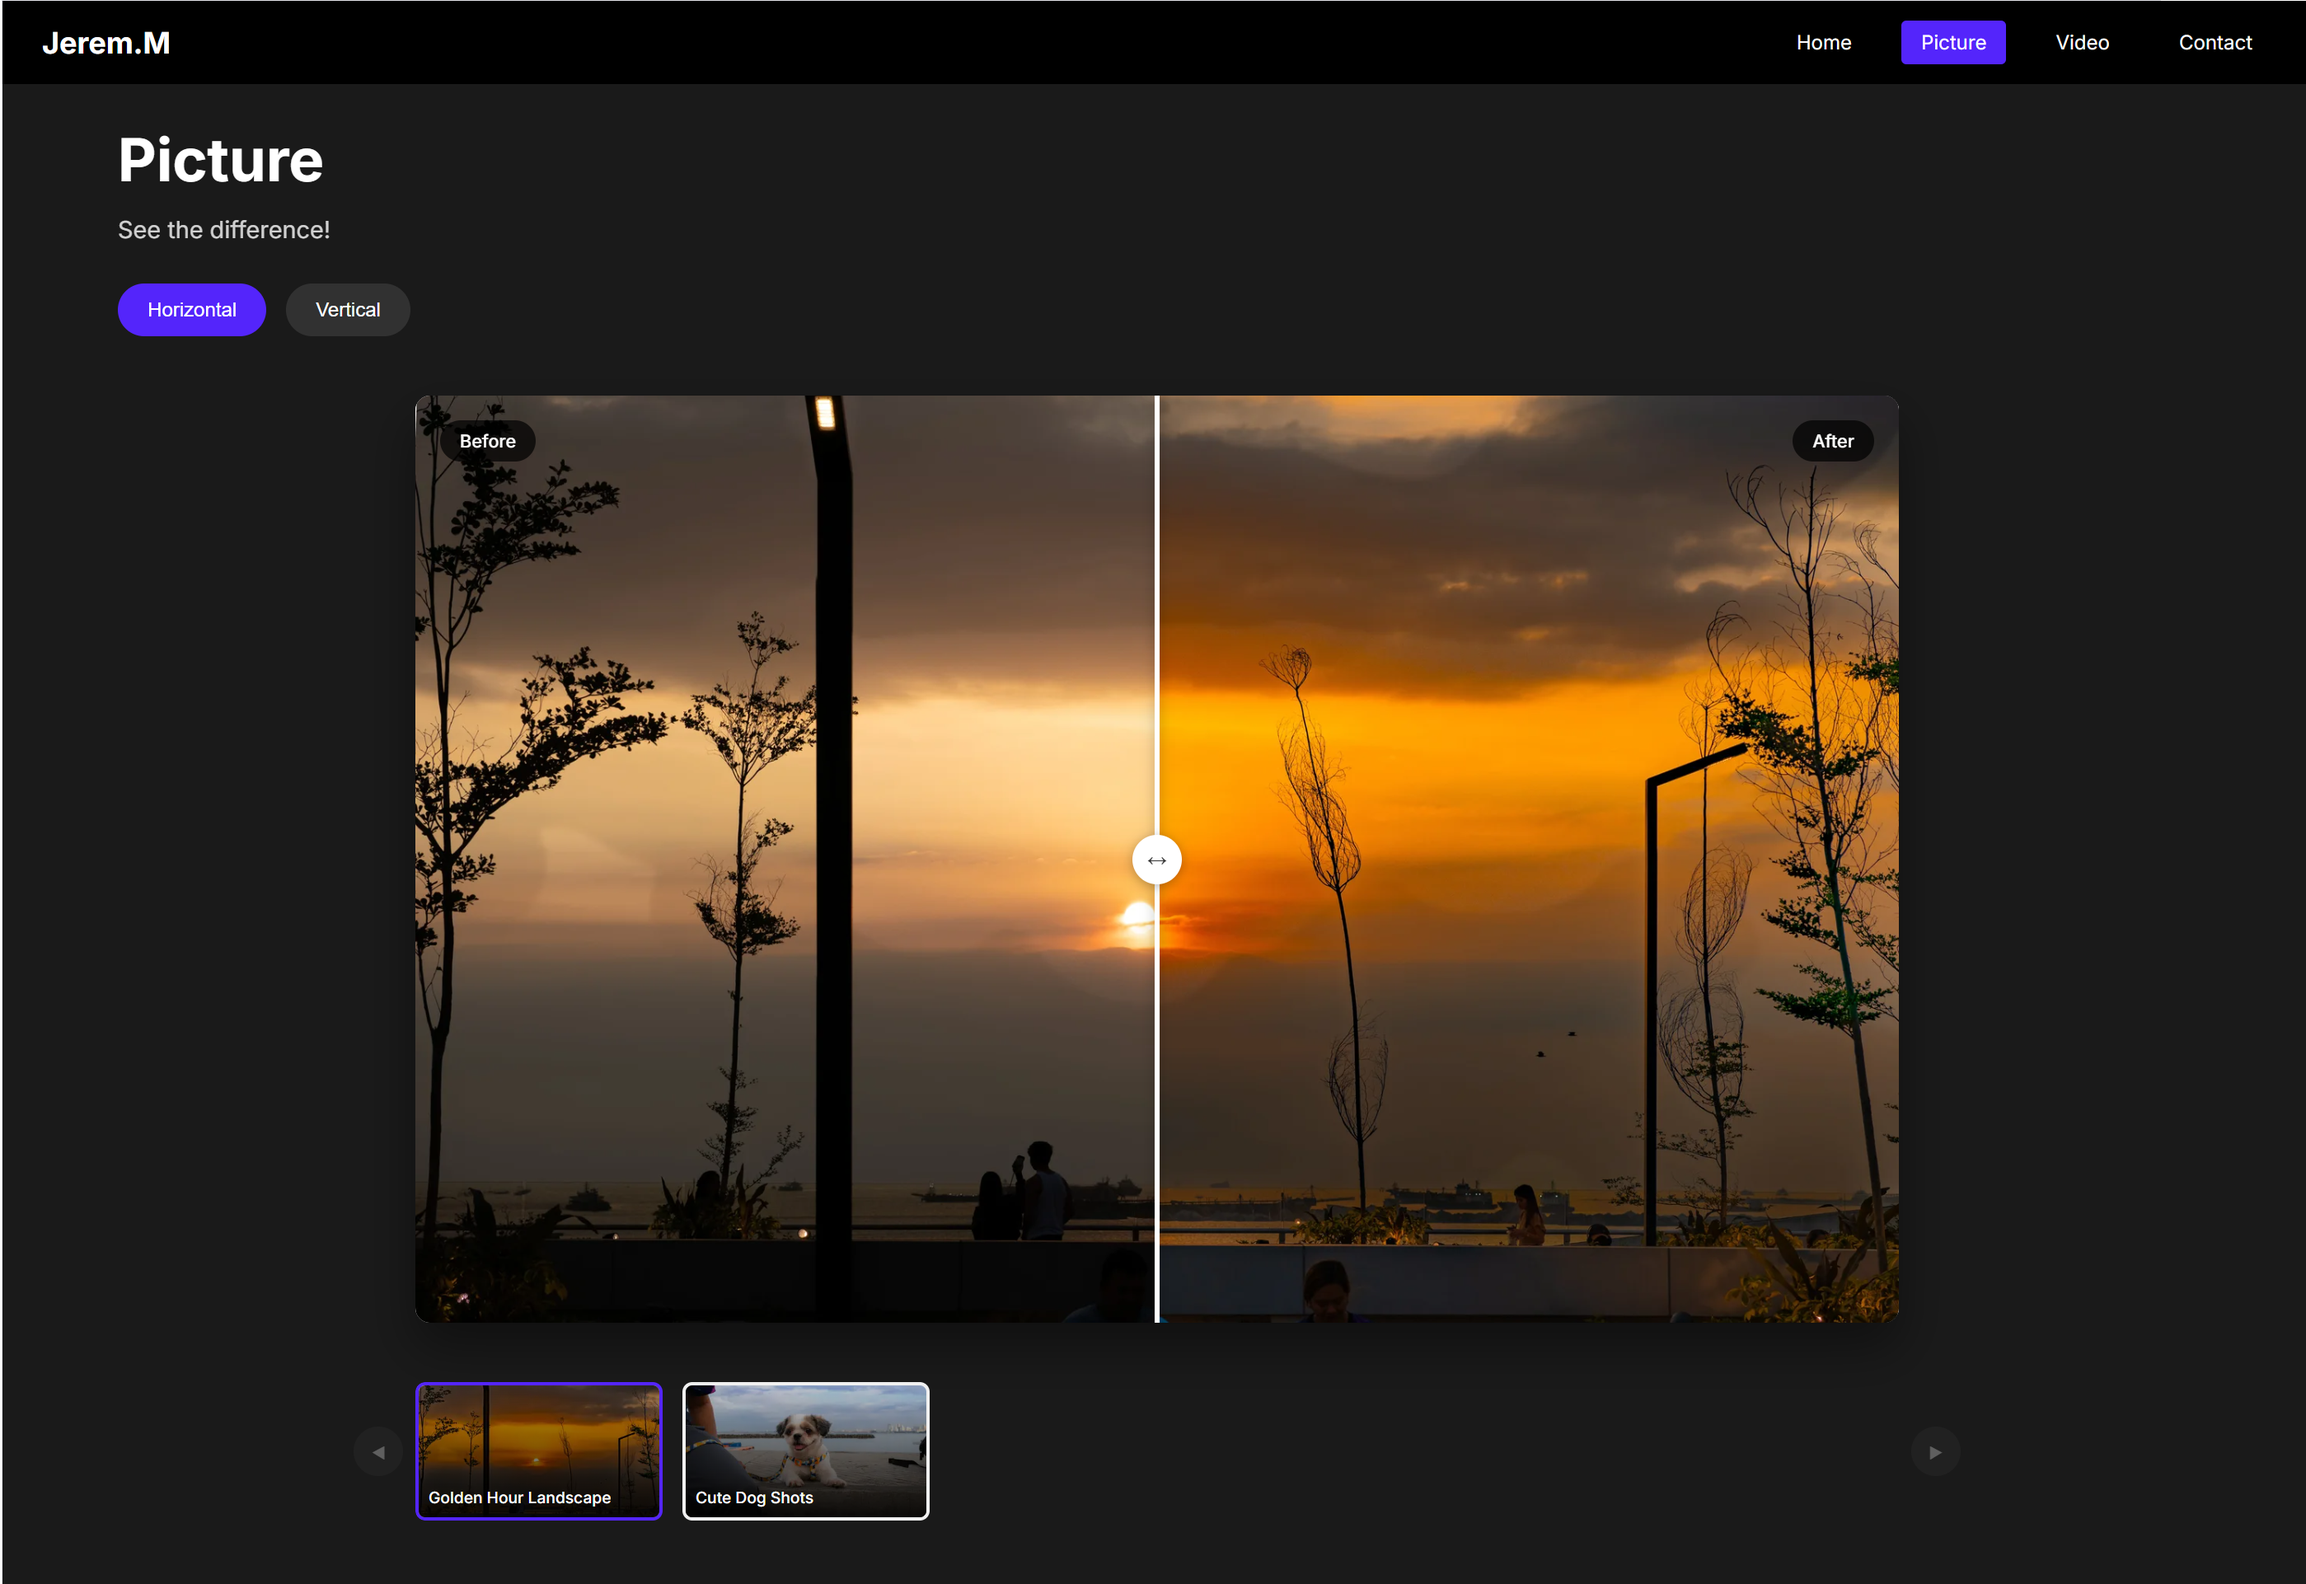
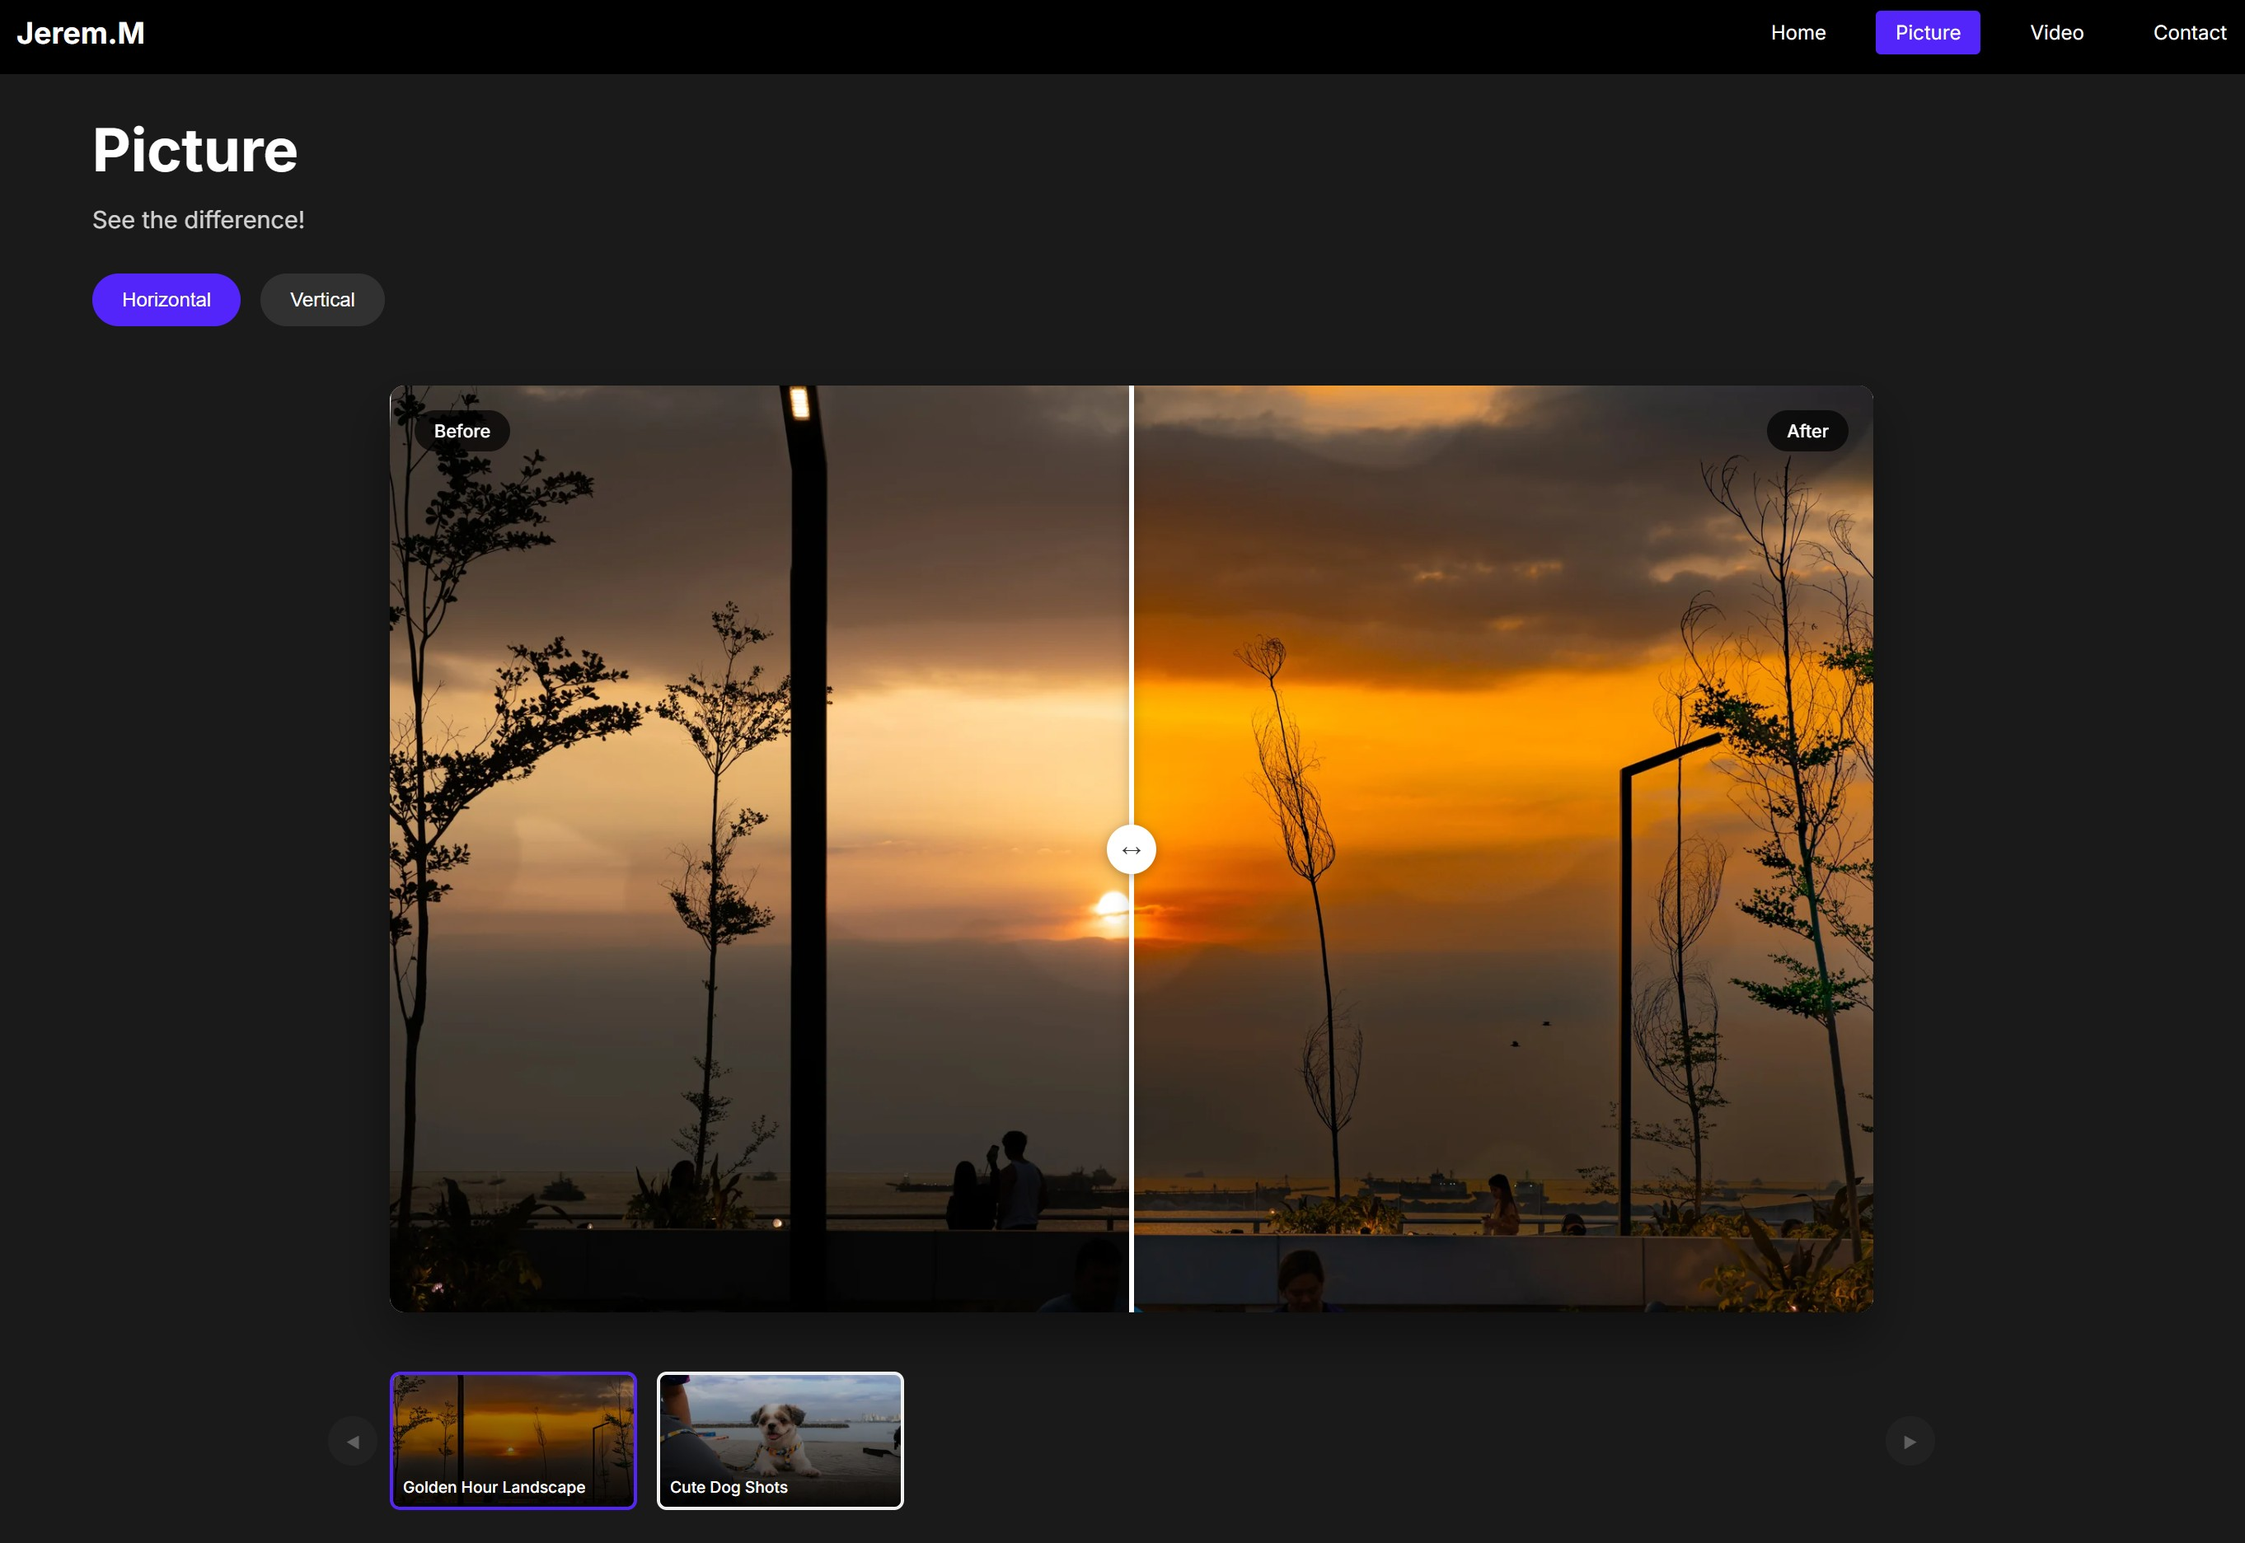
Content: updated About description

diff --git a/src/app/components/work/ProjectCard.tsx b/src/app/components/work/ProjectCard.tsx
@@ -51,7 +51,7 @@ export default function ProjectCard({ project }: { project: ProjectCardData }) {
                     {project.stack.slice(0, 6).map((tech) => (
                         <span
                             key={tech}
-                            className="rounded-full bg-[color:var(--color-surface)] px-2.5 py-1 text-xs text-[color:var(--color-text-secondary)]"
+                            className="rounded-full border border-[color:var(--tech-pill)] bg-[color:var(--color-surface)] px-2.5 py-1 text-xs text-[color:var(--tech-text)] "
                             >
                             {tech}
                         </span>
@@ -64,11 +64,11 @@ export default function ProjectCard({ project }: { project: ProjectCardData }) {
                     </p>
                 )} */}
                 <hr className="mt-2 border-t border-gray-300" />
-                <div className="mt-auto flex flex-wrap items-center gap-8 text-sm pt-1">
+                <div className="mt-auto flex flex-nowrap items-center gap-4 overflow-x-auto text-sm pt-1">
                     {isCaseStudy && 
                         <Link
                             href={`/work/${project.slug}`}
-                            className="font-medium text-[color:var(--link-accent)] hover:text-[color:var(--color-accent)] hover:underline flex gap-1"
+                            className="shrink-0 whitespace-nowrap font-medium text-[color:var(--link-accent)] hover:text-[color:var(--color-accent)] hover:underline flex gap-1"
                         >
                             <HiOutlineDocumentText size={20} />
                             Case study
@@ -80,7 +80,7 @@ export default function ProjectCard({ project }: { project: ProjectCardData }) {
                                 href={project.liveUrl}
                                 target="_blank"
                                 rel="noopener noreferrer"
-                                className="font-medium text-[color:var(--link-accent)] hover:text-[color:var(--color-accent)] hover:underline flex gap-1"
+                                className="shrink-0 whitespace-nowrap font-medium text-[color:var(--link-accent)] hover:text-[color:var(--color-accent)] hover:underline flex gap-1"
                             >
                                 <FiExternalLink size={20} />
                                 {project.title === "AnimoSched" ? <span>Published</span> : <span>Demo</span>}
@@ -91,14 +91,14 @@ export default function ProjectCard({ project }: { project: ProjectCardData }) {
                                 href={project.repoUrl}
                                 target="_blank"
                                 rel="noopener noreferrer"
-                                className="font-medium text-[color:var(--link-accent)] hover:text-[color:var(--color-accent)] hover:underline flex gap-1"
+                                className="shrink-0 whitespace-nowrap font-medium text-[color:var(--link-accent)] hover:text-[color:var(--color-accent)] hover:underline flex gap-1"
                             >
                                 <FiGithub size={20} />
-                                Repo 
+                                Repo
                             </a>
                         )}
                         {project.nda && (
-                        <div className=" font-medium text-xs text-[color:var(--color-text-secondary)] flex gap-2">
+                        <div className="shrink-0 whitespace-nowrap font-medium text-xs text-[color:var(--color-text-secondary)] flex gap-2">
                             <FaLock size={17}/>
                             <span>NDA</span>
                         </div>

diff --git a/src/app/about/page.tsx b/src/app/about/page.tsx
@@ -12,22 +12,25 @@ export default function AboutPage() {
 
                 <div className="grid grid-cols-1 items-center gap-10 sm:grid-cols-[280ox_1fr]">
                     <p className="text-lg text-[color:var(--color-text-primaray)]">
-                        Hi, I&apos;m Adrienne — a frontend engineer with a deep interest
-                        in UI/UX, especially UX research. I like playing with ideas and
-                        interface designs, and finding ways to solve real problems
-                        through a mix of design and technology.
+                        Hi, I&apos;m Adrienne — a frontend engineer in Taipei. I build React and
+                        Next.js interfaces for AI and computer-vision products. Somewhere in there I
+                        spent a year teaching computer science to kids, who are unforgiving
+                        stakeholders and excellent teachers — I came out of it more patient, better
+                        at explaining things, and much quicker to notice when someone&apos;s confused
+                        but too polite to say so. UX research is where I started and it still shapes
+                        how I build.
                     </p>
                 </div>
             </div>
 
             <div className="mt-10 flex flex-col gap-4 text-[color:var(--color-text-secondary)]">
                 <p>
-                    When I&apos;m not building interfaces, you&apos;ll usually find me
-                    drawing — mostly portraits of my friends, sometimes experimenting
-                    with new mediums. I&apos;m a foodie at heart, and I try to stay
-                    active through hiking and working out — anything that makes me
-                    feel strong. Every so often I&apos;ll go scuba diving or bouldering
-                    too.
+                    Outside of work I draw — mostly my friends and whatever I ate that week,
+                    which is a fair summary of what I care about — and I&apos;m slowly convincing
+                    a jar of kombucha in my kitchen to behave. I climb, and recently got my lead
+                    certification, which mainly means I&apos;m nervous higher up now. Weekends
+                    I&apos;m often at Long Dong, either above the water or freediving under it.
+                    Currently learning ukulele, results pending.
                 </p>
             </div>
         </main>

diff --git a/src/data/tier2Projects.ts b/src/data/tier2Projects.ts
@@ -2,6 +2,15 @@ import type { ProjectCardData } from "@/app/components/work/ProjectCard";
 
 export const tier2Projects: ProjectCardData[] = [
   {
+    title: "AkadsPH",
+    tagline: "A two-sided tutoring marketplace: profile-based tutor matching, in-platform booking and payment, and automated tutor payouts.",
+    year: 2021,
+    role: "Lead Frontend Developer",
+    stack: ["React.js", "MaterialUI", "Usability Testing"],
+    coverImage: "/images/akadsph-cover.jpg",
+    repoUrl: "https://github.com/joshmzndev/akadsph"
+  },
+  {
     title: "NU-LPR 101",
     tagline: "License plate recognition for parking lot access control, running on an edge device and trained on Taiwan plate data",
     year: 2022,
@@ -25,14 +34,5 @@ export const tier2Projects: ProjectCardData[] = [
     repoUrl: null,
     nda: true,
     ndaNote: "Source under NDA"
-  },
-  {
-    title: "AkadsPH",
-    tagline: "A two-sided tutoring marketplace: profile-based tutor matching, in-platform booking and payment, and automated tutor payouts.",
-    year: 2021,
-    role: "Lead Frontend Developer",
-    stack: ["React.js", "MaterialUI", "Usability Testing"],
-    coverImage: "/images/akadsph-cover.jpg",
-    repoUrl: "https://github.com/joshmzndev/akadsph"
   }
 ]

diff --git a/src/app/globals.css b/src/app/globals.css
@@ -16,6 +16,9 @@
   --nav-active: rgba(147, 112, 219, 0.2);
   --nav-hover: #9230D8;
 
+  --tech-text: #4C1D95;
+  --tech-pill: rgba(147, 112, 219, 0.2);
+
   /* ---- Type scale ---- */
   --font-size-xs: 0.75rem;
   --font-size-sm: 0.875rem;
